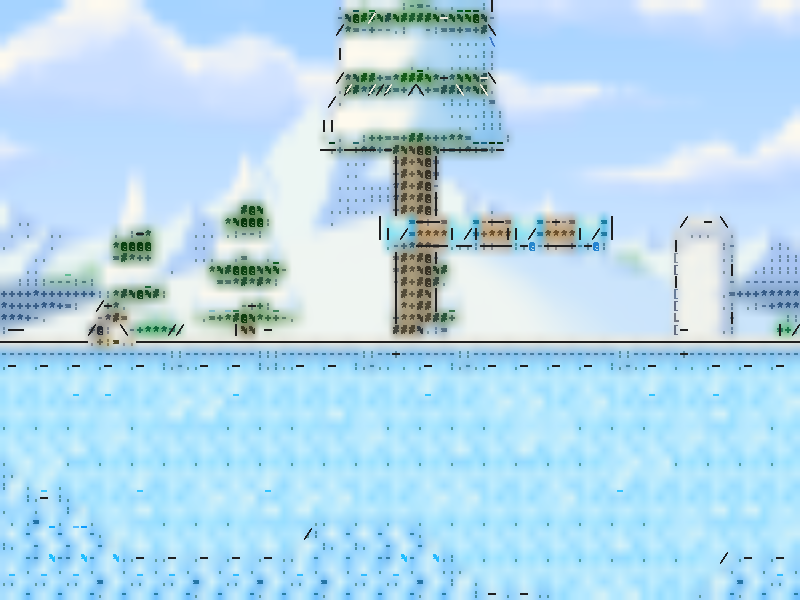
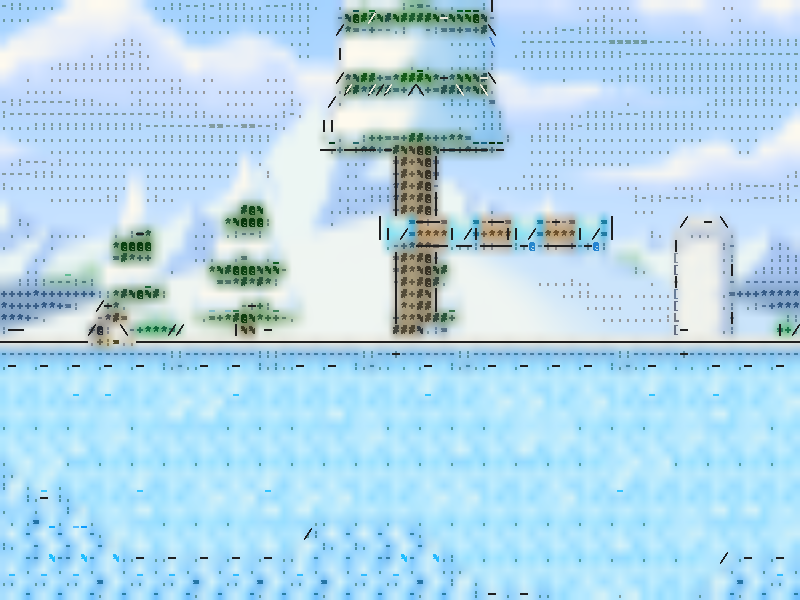
feat: local contrast on by default (0.5): equalize only compressed tones, soft ranks, measured after exposure; gallery re-rendered (detail at depth, step 2)

diff --git a/tests/unit/art_test.cpp b/tests/unit/art_test.cpp
@@ -70,12 +70,31 @@ int main() {
         check(local_contrast_gain(0, 1) == local_contrast_max_gain, "the gain is limited");
         check(std::abs(local_contrast_gain(.04F, .5F) - 2) < .0001F, "strength scales the gain");
         check(local_contrast_gain(.04F, 0) == 1, "strength zero is neutral");
+        // Equalization only where a region is compressed: full up to 0.04,
+        // half way at 0.08, none from 0.12 (texture) and none on flat areas.
+        check(local_equalization(.04F, 1) == 1 && local_equalization(.02F, .5F) == .5F,
+            "a compressed region is equalized by the strength");
+        check(std::abs(local_equalization(.08F, 1) - .5F) < .0001F, "the weight fades out");
+        check(local_equalization(.12F, 1) == 0 && local_equalization(.3F, 1) == 0,
+            "a contrasty region keeps its tone");
+        check(local_equalization(.002F, 1) == 0 &&
+                  std::abs(local_equalization(.008F, 1) - .5F) < .0001F,
+            "flat areas are left alone");
         {
-            const std::array<float, 4> samples{.30F, .31F, .32F, .33F};
-            check(local_rank(.29F, samples) == 0 && local_rank(.34F, samples) == 1,
+            // Samples 0.2 apart: each comparison is a smooth step over
+            // +/-local_contrast_softness (0.04), so ranks away from a sample
+            // count it fully and a tie counts half.
+            const std::array<float, 4> samples{.2F, .4F, .6F, .8F};
+            check(local_rank(.1F, samples) == 0 && local_rank(.9F, samples) == 1,
                 "the darkest and lightest cells take the ends");
-            check(local_rank(.315F, samples) == .5F && local_rank(.31F, samples) == .375F,
-                "a narrow band spans the range; ties count half");
+            check(local_rank(.5F, samples) == .5F && local_rank(.4F, samples) == .375F,
+                "a band spans the range; ties count half");
+            // Within the soft step the rank moves gradually: pixel noise
+            // nudges it instead of flipping a whole comparison.
+            const std::array<float, 1> one{.4F};
+            check(std::abs(local_rank(.41F, one) - .68359375F) < .0001F &&
+                      local_rank(.39F, one) < local_rank(.4F, one),
+                "comparisons are smooth near a sample");
             check(local_rank(.5F, std::span<const float>{}) == .5F, "no samples: the middle");
         }
         const auto parsed = parse_settings(
@@ -113,8 +132,8 @@ int main() {
                 "art parameters fill eight vec4s");
             check(values[art_local_contrast] == .45F,
                 "local contrast reaches the shader parameters");
-            check(art_parameters(Settings{})[art_local_contrast] == 0,
-                "local contrast is off by default");
+            check(art_parameters(Settings{})[art_local_contrast] == .5F,
+                "local contrast is on at 0.5 by default");
             check(values[art_auto_exposure] == .6F && values[art_adaptation] == 1,
                 "auto exposure reaches the shader parameters");
             check(values[art_anchor] == 1 && values[art_anchor_history] == 0,

diff --git a/include/glyphshift/core/glyph.hpp b/include/glyphshift/core/glyph.hpp
@@ -47,15 +47,31 @@ float exposure_adaptation(float seconds) noexcept;
 float adapt_luminance(float previous, float measured, float rate) noexcept;
 // Local contrast, mirrored by the analysis shader, over 7x7 luminance samples
 // of a cell's neighborhood (local_contrast_span of the image height around
-// it). The cell's tone is blended by strength (0..1) toward its rank among the
-// samples (local equalization: fog or a strong exposure no longer flatten a
-// region onto one glyph). The contour and shape thresholds are divided by a
-// gain of local_contrast_target / the samples' deviation, at least 1 and at
-// most local_contrast_max_gain, scaled toward 1 by strength.
+// it). The cell's tone is blended toward its rank among the samples by
+// local_equalization (local equalization: fog or a strong exposure no longer
+// flatten a region onto one glyph); the rank and that weight use the samples'
+// tones (tone_luminance: after exposure, contrast and gamma), what reaches the
+// ramp, so a region pushed against the top counts as compressed and a dark
+// scene that exposure brightens equalizes like the bright one. The contour and
+// shape thresholds are
+// divided by a gain of local_contrast_target / the samples' deviation, at
+// least 1 and at most local_contrast_max_gain, scaled toward 1 by strength.
 inline constexpr float local_contrast_target = .12F, local_contrast_max_gain = 4.0F;
 inline constexpr float local_contrast_span = 1.0F / 12;
+// Equalization applies where a region is compressed: fully up to a deviation
+// of local_contrast_full, fading out at local_contrast_target, where the
+// region already has contrast (texture, clouds); and not at all on flat areas
+// (deviation below local_contrast_flat_low..high), where a rank only
+// amplifies noise and gradients.
+inline constexpr float local_contrast_full = .04F;
+inline constexpr float local_contrast_flat_low = .004F, local_contrast_flat_high = .012F;
 float local_contrast_gain(float deviation, float strength) noexcept;
-// Share of the samples below `value`, ties counting half: 0..1.
+// The blend toward the rank: strength (0..1) times the weight above.
+float local_equalization(float deviation, float strength) noexcept;
+// Share of the samples below `value`, each comparison a smooth step over
+// +/-local_contrast_softness, so pixel noise moves the rank only slightly and
+// temporal stability can hold a cell's glyph: 0..1.
+inline constexpr float local_contrast_softness = .04F;
 float local_rank(float value, std::span<const float> samples) noexcept;
 // Row-major 3x3 luminance neighborhood. -1 means fill, 0..3 are | - / \\.
 int contour_glyph(std::span<const float, 9> levels, float strength, float threshold) noexcept;

diff --git a/tests/smoke/local_contrast.py b/tests/smoke/local_contrast.py
@@ -1,5 +1,5 @@
 """GPU local-contrast oracle: a fogged region keeps its structure, a contrasty
-one keeps its look, and the setting off changes nothing."""
+one keeps its look, and the default is 0.5."""
 import argparse
 from pathlib import Path
 import subprocess
@@ -66,19 +66,19 @@ plain = render('plain', '')
 off = render('off', 'local_contrast=0\n')
 half = render('half', 'local_contrast=0.5\n')
 measured = {
-    'fog bands, off': band_contrast(cells(plain, 0, SPLIT)),
+    'fog bands, off': band_contrast(cells(off, 0, SPLIT)),
     'fog bands, 0.5': band_contrast(cells(half, 0, SPLIT)),
-    'contrasty bands, off': band_contrast(cells(plain, SPLIT, W)),
+    'contrasty bands, off': band_contrast(cells(off, SPLIT, W)),
     'contrasty bands, 0.5': band_contrast(cells(half, SPLIT, W)),
 }
 if args.report:
     for key, value in measured.items():
         print(f'{key}: {value:.1f}')
     raise SystemExit
-assert off == plain, 'local_contrast=0 changed the image'
+assert half == plain, 'the default is not local_contrast=0.5'
 assert measured['fog bands, 0.5'] > 4 * max(measured['fog bands, off'], 1), measured
 assert measured['contrasty bands, 0.5'] > .6 * measured['contrasty bands, off'], measured
 print('Local contrast: fogged bands {:.1f} -> {:.1f} apart in brightness, contrasty bands '
-      '{:.1f} -> {:.1f}; off is byte-identical to the default'.format(
+      '{:.1f} -> {:.1f}; the default equals 0.5'.format(
           measured['fog bands, off'], measured['fog bands, 0.5'],
           measured['contrasty bands, off'], measured['contrasty bands, 0.5']))

diff --git a/src/core/glyph.cpp b/src/core/glyph.cpp
@@ -28,12 +28,31 @@ float local_contrast_gain(float deviation, float strength) noexcept {
     return 1 + (full - 1) * std::clamp(strength, 0.0F, 1.0F);
 }
 
+float local_equalization(float deviation, float strength) noexcept {
+    const float compressed = std::clamp(
+        (local_contrast_target - deviation) / (local_contrast_target - local_contrast_full),
+        0.0F,
+        1.0F);
+    const float t = std::clamp((deviation - local_contrast_flat_low) /
+                                   (local_contrast_flat_high - local_contrast_flat_low),
+        0.0F,
+        1.0F);
+    const float textured = t * t * (3 - 2 * t);  // GLSL smoothstep
+    return std::clamp(strength, 0.0F, 1.0F) * compressed * textured;
+}
+
 float local_rank(float value, std::span<const float> samples) noexcept {
     if (samples.empty())
         return .5F;
     float below = 0;
-    for (const float sample : samples)
-        below += sample < value ? 1.0F : sample == value ? .5F : 0.0F;
+    for (const float sample : samples) {
+        // GLSL smoothstep(-softness, softness, value - sample).
+        const float t =
+            std::clamp((value - sample + local_contrast_softness) / (2 * local_contrast_softness),
+                0.0F,
+                1.0F);
+        below += t * t * (3 - 2 * t);
+    }
     return below / static_cast<float>(samples.size());
 }
 

diff --git a/include/glyphshift/config/settings.hpp b/include/glyphshift/config/settings.hpp
@@ -31,8 +31,9 @@ struct ArtSettings {
     // Exposure follows the scene's metered brightness (0 off .. 1 fully).
     float auto_exposure = 0.0F;
     // Tone relative to each cell's neighborhood (0 off .. 1 fully), so fogged
-    // distant regions keep their internal structure (glyphshift::local_contrast).
-    float local_contrast = 0.0F;
+    // distant regions keep their internal structure (glyphshift::local_rank,
+    // local_equalization). On by default since 2026-10-22.
+    float local_contrast = 0.5F;
     // Illustrated cells follow the camera's motion, estimated on the GPU, so
     // scrolling scenes keep their glyphs instead of crawling across the grid.
     bool anchor_grid = false;

diff --git a/docs/implementation/README.md b/docs/implementation/README.md
@@ -228,6 +228,59 @@ phase posted F10 to it (turning the user's effect off). `win32.wait_window_of`
 now finds the window of the class that the test's own process created;
 `windows_run.py` and `editor_apps_win32.py` use it.
 
+**Step 2, local contrast on by default (2026-10-22).** At the user's request
+(after trying it on ELDEN RING), `local_contrast` now defaults to 0.5, which
+also reaches presets saved without the key, the user's included. Making it a
+default first needed three changes, each found by a measurement:
+
+- On SuperTux (Comic, its captured level frame) the step-1 version dotted the
+  sky and the ice with `:`: a rank turns any small variation into glyph
+  variation. Equalization is now weighted by how compressed the
+  neighborhood's tones are (`glyphshift::local_equalization`): fully up to a
+  spread of 0.04, fading to none at 0.12 (texture, which already has
+  contrast), and none on flat areas (below 0.004–0.012, a smooth step). The
+  ice no longer changes (0.2% of pixels vs off, from most of them); cloudy sky
+  still changes in a few percent of pixels, where it is also a compressed
+  bright band.
+- The temporal oracle failed with the default on: churn under noise with full
+  stability 6.2% (0 before) and 2.6% stale cells after a real change (limit
+  2%). Each rank comparison is now a smooth step over ±0.04 of tone
+  (`local_contrast_softness`), so pixel noise moves a rank a little instead of
+  flipping comparisons: churn 1.0%, stale cells 1.6%.
+- The exposure oracle then failed: the half-brightness scene under automatic
+  exposure differed from the bright one in 31% of cells (limit 5%), because
+  ranks and weights used absolute luminance. They now use the samples' tones
+  (`tone_luminance`: after exposure, contrast and gamma, what reaches the
+  ramp), so a region pushed against the top of the ramp by a strong exposure
+  counts as compressed and a dark scene that exposure brightens equalizes like
+  the bright one: 0.5% of cells. The contour gain still uses luminance, where
+  contours are detected.
+
+Final measurements: ELDEN RING reference frame with the user's style, far
+temple correlation 0.32 → 0.50, near 0.83 → 0.81 (3% of near cells change);
+local-contrast oracle fogged bands 2.7 → 14.1, contrasty bands 36.2 → 36.2,
+default equal to 0.5; temporal churn 0.252 → 0.010 with stability, stale 1.6%;
+exposure 0.5%. Unit tests cover `local_equalization`, the soft `local_rank`
+and the new default.
+
+Gallery: the nine style images and the overview were re-rendered at the new
+default from the same source frames, with the Linux machine's font (Hack 3.003
+Bold from the project's release, the zip's SHA-256 `0c2604…f8290ac` matching
+the record above). Rendered with `local_contrast=0`, they first reproduced the
+committed images exactly as recorded earlier (Comic 3 pixels, Midnight 1,
+Digital rain 1,225, the others identical), validating the method. At the
+default, pixels change clearly (by more than 40 levels) in 1.0–2.1% of each
+font-based style and 3.6% of Ink & Edges on the dark scene, which gains
+structure in its darkest corners; Blueprint, which uses no fill, is unchanged
+and its file was kept. The overview's tiles were replaced in place (2×2 box
+reduction, matching the earlier tiles within about 1–5 levels) and its labels
+kept.
+
+Verification: both presets built, 12/12 CTest tests each, format check, and
+the smoke's overlay, editor and oracle phases passed on Release. Not verified:
+the default live in a game by the user, GPU cost, and Linux (GL renderer, GLX
+smoke; CI builds only).
+
 ### Windows distribution (requested 2026-10-22)
 
 Today only people who build from source can use GlyphShift. The plan, waiting

diff --git a/README.md b/README.md
@@ -85,9 +85,10 @@ version of the effect running in the game through Proton.*
   adjustable stroke weight.
 - **Live art direction:** independent cell dimensions, source color or
   monochrome, ink and paper colors, exposure, contrast, gamma and contour controls.
-- **Detail in the distance:** local contrast equalizes each area against its
-  surroundings, so fogged or brightly exposed scenery far away keeps its shapes
-  instead of turning into one flat field of glyphs.
+- **Detail in the distance:** local contrast, on by default, equalizes areas
+  whose tones are squeezed together against their surroundings, so fogged or
+  brightly exposed scenery far away keeps its shapes instead of turning into one
+  flat field of glyphs, while textured and flat areas keep their look.
 - **Automatic exposure:** follows the scene's brightness, lifting dark games
   toward a readable mid tone and easing in over a moment when the scene changes.
 - **Adjustable intensity:** blend scene detail with glyphs or use strength 1

diff --git a/presets/README.md b/presets/README.md
@@ -23,7 +23,8 @@ dark-paper styles.
 ![Nine styles rendered from the SuperTux frame](../docs/presets/overview.png)
 
 These are GPU previews of the same [captured frame](../docs/illustration-original.png),
-not live gameplay tests. Ink & Edges is shown on a [darkened version](../docs/presets/dark-scene.png)
+not live gameplay tests, rendered with **Local contrast** at its default of 0.5
+(set `local_contrast=0` for the earlier look). Ink & Edges is shown on a [darkened version](../docs/presets/dark-scene.png)
 of that frame (brightness, saturation and gamma reduced, plus a vignette), a
 synthetic stand-in for a dark game. Its **Auto exposure** lifts such scenes and
 tones bright ones down, so the same style works on both. Dark-paper styles (Chalk, Blueprint, Midnight, CRT,
